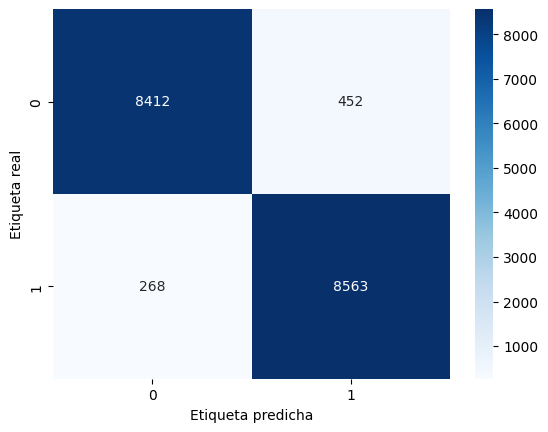
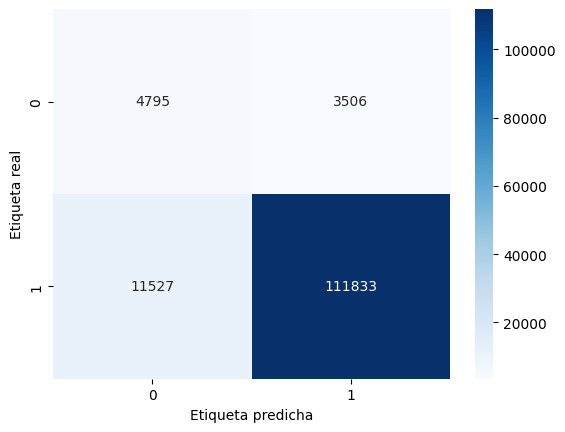
feat(Readme): Progress on Readme

diff --git a/Readme.md b/Readme.md
@@ -209,19 +209,19 @@ Para el entrenamiento y evaluación de los modelos se utilizó la librería `skl
 
 La distribución en todos las etapas fue de 80% para entrenamiento y 20% para prueba.
 
-### Resultados Modelado Simple
+### Resultados Extracción general de caracteristicas por canal
 
-Los resultados obtenidos para el modelado simple fueron los siguientes:
+**RANDOM FOREST**
 
-Precisión: 0.8898254063816978
+Precisión: 0.8908872901678657
 Reporte de clasificación:
 |               |precision|    recall|  f1-score   |support|
 |---------------|---------|----------|------------|--------|
- |          0    |   0.93  |    0.84  |    0.88    |   835|
- |     1   |    0.86  |    0.94   |   0.89    |   826|
- |   accuracy    |         |         |     0.89  |    1661|
- |  macro avg    |   0.89  |    0.89   |   0.89   |   1661|
-|weighted avg    |   0.89   |   0.89   |   0.89  |    1661|
+ |          0    |   0.96  |    0.85  |    0.90    |   984|
+ |     1   |    0.81  |    0.95   |   0.88    |   684|
+ |   accuracy    |         |         |     0.89  |    1668|
+ |  macro avg    |   0.89  |    0.90   |   0.89   |   1668|
+|weighted avg    |   0.90   |   0.89   |   0.89  |    1668|
 
 Siendo 0 la clase HC y 1 la clase STEMI.
 
@@ -229,21 +229,50 @@ Y la matriz de confusión:
 
 ![Matriz de confusión](/fig//matriz_confusion_RF_Simple.png)
 
+**SVM**
 
+Precisión: 0.6504796163069544
 
-### Resultados Modelado Complejo
-
-**Respecto al complejo QRST:**
-
-Precisión: 0.9593105397004804
 Reporte de clasificación:
-|            |   precision|    recall | f1-score  | support|
-|------------|------------|-----------|-----------|--------|
-|           0 |      0.97  |    0.95  |    0.96  |    8864|
-|           1  |     0.95  |    0.97  |    0.96  |    8831|
- |   accuracy    |          |       |      0.96   |  17695|
- |  macro avg    |   0.96    |  0.96   |   0.96   |  17695|
-|weighted avg    |   0.96    |  0.96     | 0.96   |  17695|
+|              | precision |   recall | f1-score |  support|
+|--------------|-----------|----------|----------|---------|
+|           0  |     0.74  |    0.62  |    0.68  |     984|
+|           1  |     0.56  |    0.69  |    0.62  |     684|
+|    accuracy  |           |          |    0.65  |    1668|
+|   macro avg  |     0.65  |    0.66  |    0.65  |    1668|
+|weighted avg  |     0.67  |    0.65  |    0.65  |    1668|
+
+![Matriz de confusión](/fig/matriz_confusion_SVM_Simple.png)
+
+**Redes neuronales**
+
+Precisión: 0.9075841307640076
+
+**ADABOOST**
+
+Precisión: 0.86
+
+**XGBOOST**
+
+Precisión: 0.90
+
+
+### Resultados Extracción específica de características por segmento
+
+#### Respecto al complejo QRST
+
+**RANDOM FOREST**
+
+Precisión: 0.8858204023970652
+Reporte de clasificación:
+|             |  precision |  recall | f1-score |  support|
+|-------------|------------|---------|----------|---------|
+|0            |     0.29   |   0.58  |   0.39   |    8301|
+|1            |     0.97   |   0.91  |   0.94   |  123360|
+|accuracy     |            |         |   0.89   |  131661|
+|macro avg    |     0.63   |   0.74  |   0.66   |  131661|
+|weighted avg |     0.93   |   0.89  |   0.90   |  131661|
+
 
 Siendo 0 la clase HC y 1 la clase STEMI.
 
@@ -253,27 +282,130 @@ Su matriz de confusión:
 
 Siendo 0 la clase HC y 1 la clase STEMI.
 
-**Respecto al segmento ST:**
+**SVM**
 
-Precisión: 0.9074314778185928
+Sin resultados despues de 5 horas de entrenamiento.
+
+**Redes neuronales**
+
+Precisión: 0.9557033777236938
+
+![Matriz de confusión QRST](/fig/matriz_confusion_RN_QRST.png)
+
+**ADABOOST**
+
+Precisión: 0.94
+
+**XGBOOST**
+
+Precisión: 0.95
+
+![Matriz de confusión QRST](/fig/matriz_confusion_XG_QRST.png)
+
+#### Respecto al complejo ST
+
+**RANDOM FOREST**
+
+Precisión: 0.9028630252556135
 Reporte de clasificación:
-|             |  precision  |  recall | f1-score |  support|
-|-------------|-------------|---------|----------|---------|
-|           0   |    0.91   |  0.90   |   0.91    |  8864|
- |          1    |   0.90   |   0.91    |  0.91   |   8831|
-|    accuracy     |       |       |        0.91  |   17695|
-|   macro avg   |    0.91    |  0.91    |  0.91  |   17695|
-|weighted avg    |   0.91    |  0.91   |   0.91   |  17695|
+|             |  precision |  recall | f1-score |  support|
+|-------------|------------|---------|----------|---------|
+|0            |     0.23   |   0.44  |   0.31   |    6262|
+|1            |     0.97   |   0.93  |   0.95   |  122937|
+|accuracy     |            |         |   0.90   |  129199|
+|macro avg    |     0.60   |   0.68  |   0.63   |  129199|
+|weighted avg |     0.93   |   0.90  |   0.92   |  129199|
 
-Siendo 0 la clase HC y 1 la clase STEMI.
+**SVM**
 
-Su matriz de confusión:
+Omitido por tiempo de entrenamiento.
 
-![Matriz de confusión ST](/fig/matriz_confusion_RF_ST.png)
+**Redes neuronales**
+
+Precisión: 0.9368395209312439
+
+![Matriz de confusión ST](/fig/matriz_confusion_RN_ST.png)
+
+**ADABOOST**
+
+Precisión: 0.94
+
+**XGBOOST**
+
+Precisión: 0.95
+
+![Matriz de confusión ST](/fig/matriz_confusion_XG_ST.png)
+
+
+### Resultados Extracción específica de características por segmento con SMOTE
+
+#### Respecto al complejo QRST
+
+**RANDOM FOREST**
+
+Precisión: 0.6886093831886435
+Reporte de clasificación:
+|             |  precision |  recall | f1-score |  support|
+|-------------|------------|---------|----------|---------|
+|0            |     0.15   |   0.80  |   0.25   |    8301|
+|1            |     0.98   |   0.68  |   0.80   |  123360|
+|accuracy     |            |         |   0.69   |  131661|
+|macro avg    |     0.56   |   0.74  |   0.52   |  131661|
+|weighted avg |     0.93   |   0.69  |   0.77   |  131661|
+
+
+![Matriz de confusión QRST](/fig/matriz_confusion_RF_QRST_SMOTE.png)
+
+**SVM**
+
+Omitido por tiempo de entrenamiento.
+
+**Redes neuronales**
+
+Por evaluar.
+
+**ADABOOST**
+
+Por evaluar.
+
+**XGBOOST**
+
+Por evaluar.
+
+#### Respecto al complejo ST
+
+**RANDOM FOREST**
+
+Precisión: 0.7298198902468286
+Reporte de clasificación:
+|             |  precision |  recall | f1-score |  support|
+|-------------|------------|---------|----------|---------|
+|0            |     0.12   |   0.74  |   0.21   |    6262|
+|1            |     0.98   |   0.73  |   0.84   |  122937|
+|accuracy     |            |         |   0.73   |  129199|
+|macro avg    |     0.55   |   0.73  |   0.52   |  129199|
+|weighted avg |     0.94   |   0.73  |   0.81   |  129199|
+
+![Matriz de confusión ST](/fig/matriz_confusion_RF_ST_SMOTE.png)
+
+**SVM**
+
+Omitido por tiempo de entrenamiento.
+
+**Redes neuronales**
+
+Precision: 0.784372866153717
+
+![Matriz de confusión ST](/fig/matriz_confusion_RN_ST_SMOTE.png)
+
+**ADABOOST**
+
+Por evaluar.
+
+**XGBOOST**
+
+Por evaluar.
+
 
 ## Conclusiones
 
-El modelo entrenado con las características completas del complejo QRST muestra una mayor capacidad para predecir la etiqueta de registro, ya sea como sano o de tipo STEMI. Es importante señalar que las diferencias entre el modelo simple, que utiliza características generales de cada canal del registro, y el modelo complejo, basado en la extracción del segmento ST, son mínimas, con una variación aproximada del 1%. Esto sugiere que, si es necesario optimizar recursos, optar por una identificación general de los registros sería preferible. Sin embargo, si se requiere una mayor precisión en el modelo, la opción más adecuada sería el modelado complejo que utiliza los puntos QRST.
-
-
-![Resultados](/fig/metricas_finales.png)
